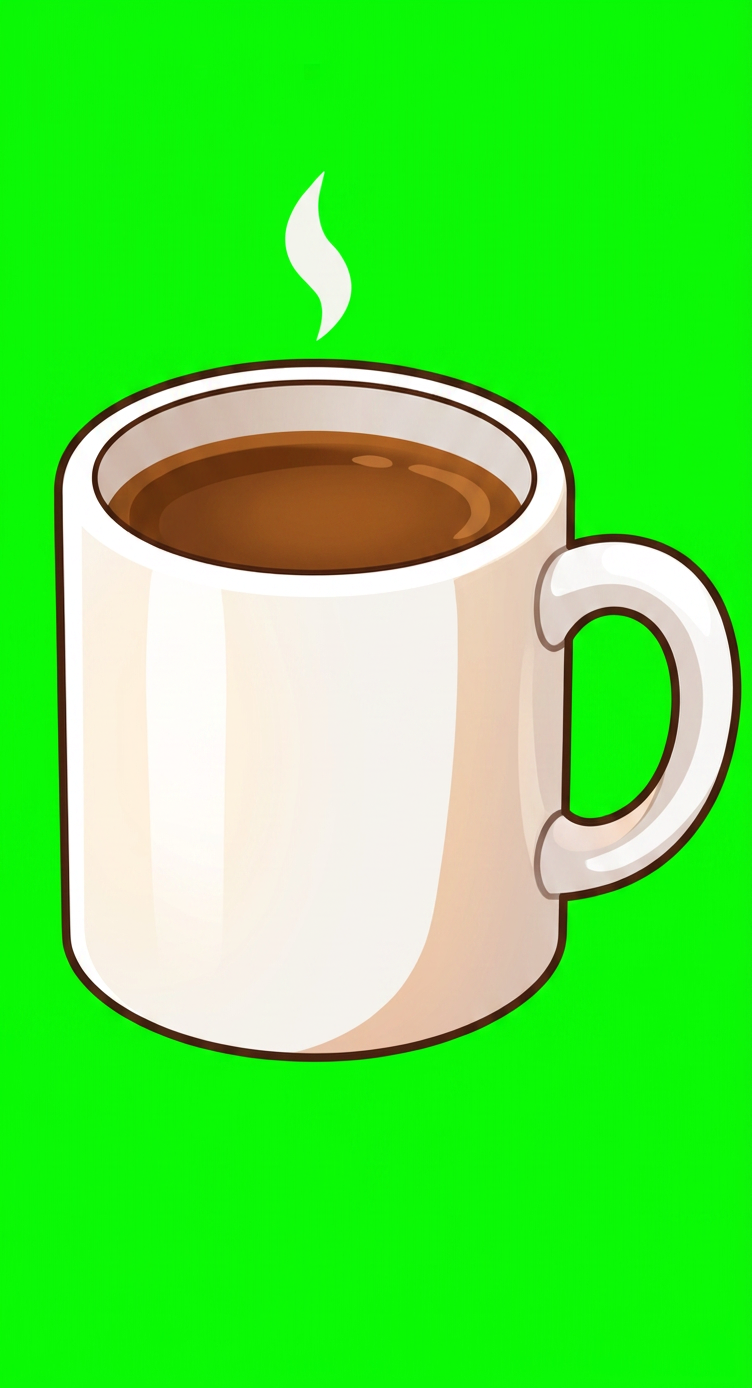
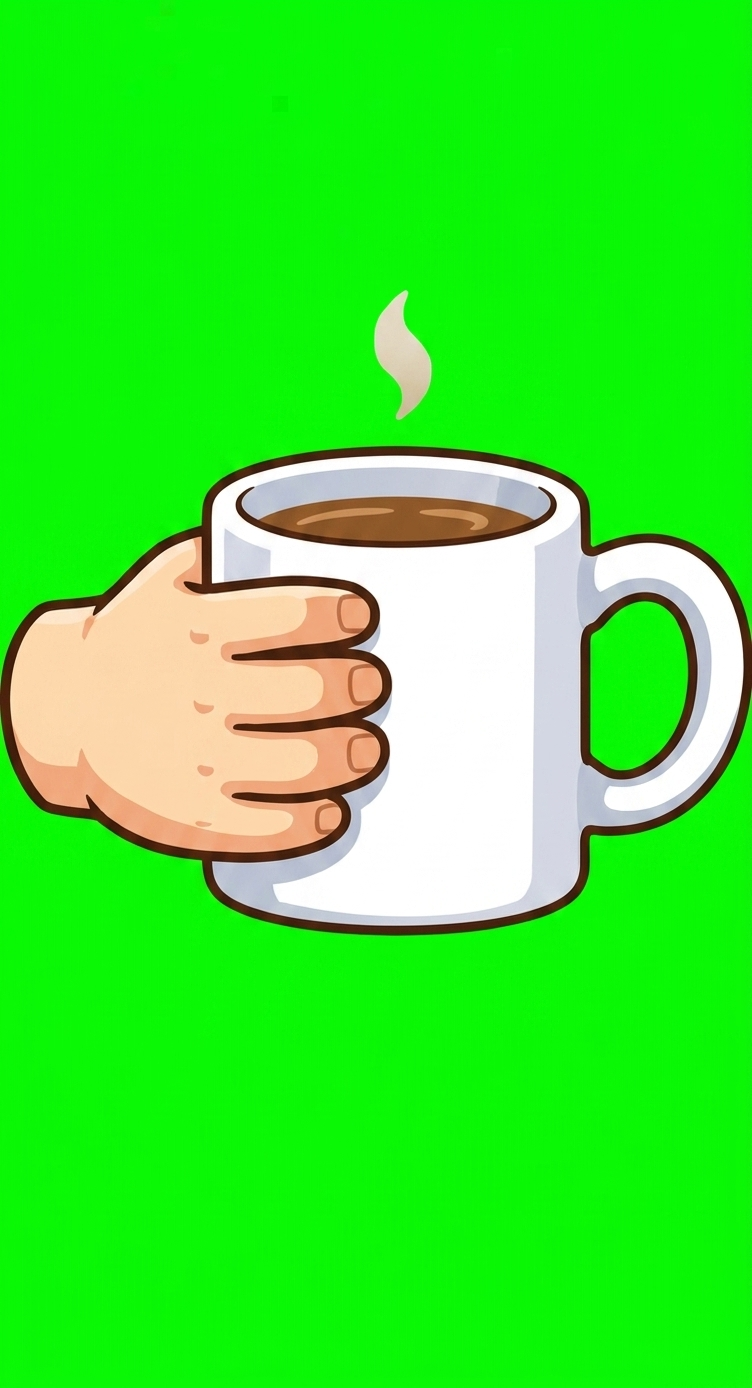
Phase 5 ①b(a)⑵: held-item 静的合成の歩行不成立を実測で確定 — 握り手込み・stand のみ表示の暫定規格へ改訂

diff --git a/packages/client/src/game.package/avatarView.ts b/packages/client/src/game.package/avatarView.ts
@@ -21,14 +21,21 @@ export interface AvatarSheetTextures {
 
 /**
  * A held item composited onto the avatar's hand anchor (avatar-rig.md §2 —
- * the held-item layer; validated by the ①b(a) layer-composition spike).
- * All coordinates are pixels in the source frames (2x display resolution,
- * origin top-left, straight from the manifests): `grip` is the point in
- * the item frame that lands on the pose's hand anchor, and `hands` are the
- * per-pose hand anchors (the near arm's fist, measured per frame — the
- * frame-center estimate the import line records by default would park the
- * item on the hip). The keys mirror AvatarSheetTextures so held items and
- * pose frames can never disagree about which poses exist.
+ * the held-item layer). All coordinates are pixels in the source frames
+ * (2x display resolution, origin top-left, straight from the manifests):
+ * `grip` is the point in the item frame that lands on the hand anchor, and
+ * `hands` are the per-pose hand anchors. The keys mirror AvatarSheetTextures
+ * so held items and pose frames can never disagree about which poses exist.
+ *
+ * Shown ONLY while standing — the ①b(a) spike's measured conclusion: the
+ * walk sheets' exaggerated arm swing (the very thing that makes the leg
+ * alternation readable, ①b(c)) structurally conflicts with a statically
+ * anchored item. Both fists swing prominently and empty, so wherever the
+ * item is pinned, half the frames read as "the arm swings past the
+ * floating item" (owner review + zoomed video review, 2026-08-08 — anchor
+ * precision cannot fix this). Items during WALK need a carry-pose body
+ * variant or an arm-included overlay layer (the MapleStory weapon+arm
+ * structure) — the ①e design decision recorded in ROADMAP ①b(a).
  */
 export interface HeldItemDisplay {
   texture: Texture;
@@ -58,12 +65,11 @@ const ASSET_SCALE = 0.5;
 
 /**
  * The held item as a sprite whose origin is its grip point: positioning it
- * at a pose's hand anchor is then a single coordinate conversion per frame
- * (see placeHeldItem). Added to `body` after the avatar sprite, so the item
- * draws in front — the hand anchor tracks the NEAR arm's fist, which the
- * source frames draw over the body in every pose (measured across the
- * stride by the ①b(a) spike), so one z-position suffices; no per-pose
- * z or rotation field earned its way into the manifest.
+ * at a pose's hand anchor is then a single coordinate conversion (see
+ * placeHeldItem). Added to `body` after the avatar sprite, so the item
+ * draws in front — the stand pose draws its front hand against the hip,
+ * so one z-position suffices; no per-pose z or rotation field earned its
+ * way into the manifest.
  */
 function createHeldItemSprite(item: HeldItemDisplay): Sprite {
   const sprite = new Sprite(item.texture);
@@ -83,6 +89,22 @@ function placeHeldItem(item: Sprite, frame: Texture, hand: readonly number[]): v
   const [handX, handY] = hand;
   item.x = ((handX ?? 0) - frame.width / 2) * ASSET_SCALE;
   item.y = PLAYER_HALF_H - (frame.height - (handY ?? 0)) * ASSET_SCALE;
+}
+
+/**
+ * Shows the held item while the avatar stands, stowed while it walks (the
+ * stand-only rule — see HeldItemDisplay). The placement re-runs on every
+ * shown frame because the stand texture is the placement's coordinate
+ * space and stays constant, so this is idempotent, not per-frame drift.
+ */
+function syncHeldItem(
+  item: Sprite,
+  sheet: AvatarSheetTextures,
+  held: HeldItemDisplay,
+  standing: boolean,
+): void {
+  item.visible = standing;
+  if (standing) placeHeldItem(item, sheet.stand, held.hands.stand);
 }
 
 /**
@@ -118,7 +140,7 @@ export function createAvatarView(
       walk = advanceWalk(walk, dx, dtMs);
       const pose = selectPose(walk);
       sprite.texture = sheet[pose];
-      if (item && held) placeHeldItem(item, sheet[pose], held.hands[pose]);
+      if (item && held) syncHeldItem(item, sheet, held, pose === 'stand');
     },
   };
 }

diff --git a/scripts/import-avatar-sheet.py b/scripts/import-avatar-sheet.py
@@ -20,14 +20,19 @@ estimate, overridden per pose by the order's `handAnchors` (measured values —
 skin-tone blob detection plus visual confirmation; the override lives in the
 order so a re-run of this script reproduces the committed manifest instead
 of clobbering the measurements back to the estimate). The measured spec,
-decided by the ①b(a) layer-composition spike after an in-game video review:
-`hand` is THE FIST THE ART DRAWS IN FRONT OF THE TORSO in each frame, not
-one physical hand tracked through the stride. The physical track parks 3 of
-4 walk frames at the hip (back swing / two passings) and pops forward for
-one frame, which at 96px and 200ms/frame reads as "the item is parked on
-the hip, ignoring the hand"; the front-fist positions stay within a few
-pixels of each other across the walk frames, so a held item reads as
-carried steadily in the visible hand. `neckAnchors` overrides the neck
+revised across the ①b(a) spike's owner/video reviews: the STAND `hand` is
+the visible hanging hand at the character's side — a held item's baked
+gripping hand covers it and connects to the arm (anchoring at the barely
+drawn front-hip hand instead reads as a disembodied hand). The WALK values
+record the fist the art draws in front of the torso (kept as measurements),
+but statically composited items are NOT rendered during walk at all: the
+exaggerated arm swing that makes the leg alternation readable (①b(c))
+leaves both fists prominently empty every stride, so wherever an item is
+pinned, half the frames read as floating — the same-physical-hand track
+parks it at the hip, the front-fist track pins it to the chest while the
+near arm swings past (both measured, both rejected). Items during walk
+need a carry-pose body variant or an arm-included overlay layer — the ①e
+design decision recorded in ROADMAP ①b(a). `neckAnchors` overrides the neck
 detection the same way: the ①b(a) spike measured that the narrowest-row
 heuristic breaks on outfits that widen the neck silhouette (the red
 hoodie's hood makes the hip row the narrowest, landing the neck on the

diff --git a/docs/ROADMAP.md b/docs/ROADMAP.md
@@ -1648,26 +1648,39 @@ Phase 6 の事業判断）。適用範囲はアバター・装備・オブジェ
   アンカーへのアイテム合成 1 個・服替えシート 1 着。①d①e で規格の穴が
   見つかってから直すと量産済み全キャラのシート再生成になるため、キャラ
   1 体のうちに規格を検証し切る（ファクトリー最重視の方針の実装）
-  ✅ **⑵ 装備・服替えの規格検証 実施（2026-08-08、総コスト $0.20 —
-  nano-banana-2 ×2 枚。頭グループ分離は⑴の頭部 neck 合成で検証済み）**:
-  両方とも現行規格で成立。結果と決定:
-  (i) **held-item（コーヒーカップ `item.coffee-mug`）**: nano-banana-2 に
-  立ちコマをスタイル参照で渡す 1 枚生成が一発合格。**hand アンカーの規格を
-  実測で決定** — 「そのコマでアートが体の前に描く拳」を指す（walk 4 コマで
-  x37〜42 に安定）。当初の「物理的に同一の手前手を追跡」（後→腰→前→腰）は
-  96px・200ms/コマでは 4 コマ中 3 コマが腰に集まり「アイテムが腰に固定」に
-  見えて動画レビュー不合格 → 前拳追跡に変更して合格。実座標の特定は肌色
-  ブロブ検出＋目視確認のハイブリッド（発注書の `handAnchors` 上書きに記録 —
-  再取り込みが実測値を保つ）。**held-item 側の規格の穴を 1 個発見**:
-  アイテム自身に取り付け点 `grip` が要る（manifest `anchors.grip`、
-  `scripts/import-held-item.py` 新設。高さ規約は 2x 16px — 14/16/20 の
-  合成比較で決定）
-  (ii) **前後関係 (b)・回転 (c) は manifest 拡張不要と判定**: 前拳は
-  アートが常に体の前に描くため単一 z（体スプライトの前に重ねる）で
-  5 ポーズとも破綻なし。マグは直立のままが自然（手首補正の読み）で角度
-  追従も不要。将来、長物（剣）や後ろ手ポーズで必要になったら anchors を
-  additive に `[x,y]` → `{pos, z, angle}` へ拡張する（現スキーマのまま
-  拡張余地を確認 — 今回は追加しない）
+  ✅ **⑵ 装備・服替えの規格検証 実施（2026-08-08、総コスト $0.50 —
+  nano-banana-2 ×5 枚。頭グループ分離は⑴の頭部 neck 合成で検証済み。
+  服替えは成立・held-item は当初規格を棄却して暫定規格へ改訂 —
+  スパイクの狙いどおり量産前に規格の穴が出た）**: 結果と決定:
+  (i) **held-item の当初規格「hand アンカーに 1 枚絵を静的合成」は歩行では
+  不成立と実測で確定**（オーナー指摘が起点）。実測の連鎖: ①素のカップ×
+  物理的に同一の手前手を追跡（後→腰→前→腰）— 96px・200ms/コマでは
+  4 コマ中 3 コマが腰に集まり「腰に固定」に見える ②素のカップ/握り手込み
+  カップ×「アートが体の前に描く拳」追跡（x37〜42 に安定）— 今度は腕が
+  空で振れてカップだけ胸に浮く二重拳（拡大動画レビューで両コーデ FAIL）。
+  **根本原因はアンカー精度ではなく、⑴が脚の交互性のために採用した誇張
+  スイング歩行との構造衝突** — 両拳が常に目立って空振りするため、どの
+  静的位置に置いても半分のコマで破綻する。nano-banana-2 に「持ち手を
+  固定した carry 歩行」への編集を 2 回試みたが腕ポーズ指示は効かず
+  （⑴の教訓の再確認）、一方**「アイテムを持たせる編集」（弁当箱で実験）は
+  腕ごと描くため腕とアイテムの整合が常に正しい**ことを確認 — 焼き込みは
+  item×outfit の掛け算になるが、元シートとの差分抽出で「腕込み
+  オーバーレイ部品」（本家 MapleStory の weapon+arm 構造）へ発展できる
+  (ii) **確定した暫定規格**: held-item は**握り拳込みで生成**（アイテム側
+  アンカー `grip`・高さ 2x 20px — manifest `anchors.grip`、
+  `scripts/import-held-item.py` 新設）し、**stand のみ表示**（歩行中は
+  しまう — 座る・立ち話の「コーヒーを持って居る」ユースは成立）。stand の
+  hand アンカーは**見えている垂れ手**（拳を覆って腕と接続する。ほぼ
+  描かれない前腰の手に置くと「手だけ浮く」— 実測）。この形で拡大動画
+  レビュー両コーデ合格。歩行中の携行の本命は (A) 差分抽出の腕込み
+  オーバーレイ層 (B) carry ポーズ変種（動画ライン $0.50/コーデ）の
+  二択で、**①e の層設計セッションで決める**（袖クラスとオーバーレイの
+  関係など服レイヤー設計と不可分のため）。実座標の特定は肌色ブロブ検出＋
+  目視確認のハイブリッド（発注書の `handAnchors` 上書きに記録 —
+  再取り込みが実測値を保つ）
+  (iii) **前後関係 (b)・回転 (c)**: stand のみの暫定規格では単一 z
+  （体の前）・回転なしで足りる。将来必要になったら anchors を additive に
+  `[x,y]` → `{pos, z, angle}` へ拡張できることを確認（今回は追加しない）
   (iii) **服替え（`avatar.boy-basic-red` 赤パーカー＋ベージュチノ）**:
   候補 (a) の nano-banana-2 **既存シート編集**が一発で成立し、動画ライン
   再運転（候補 b）は不要。ポーズ・接地・頭部の一致はシルエット IoU
@@ -1675,17 +1688,20 @@ Phase 6 の事業判断）。適用範囲はアバター・装備・オブジェ
   「restyle はポーズがドリフト」との整合: ドリフトしたのは生ビデオ
   フレームの restyle で、**構成済みシートへの keep-everything 編集は
   ポーズを保つ**（プロンプトに「編集は服だけ・ポーズ画素同一」を明記）
-  (iv) **発見した取り込みラインの穴 2 件**（①b 本体で構造対応）:
+  (iv) **発見した取り込みラインの穴 3 件**（①b 本体で構造対応）:
   neck 最細行ヒューリスティックはフード付きの服で壊れる（フードが首行を
   広げ、腰が最細になる — 実測で neck が y48→y68 へ落ちた）。肌色ブロブ
   検出もベージュの服色で汚染される。応急処置として発注書に
   `neckAnchors` / `handAnchors` 上書きを追加（服替えはポーズ同一なので
   基礎シートの実測値を転写）。①b のアート lint（アンカー乖離の自動計測）は
-  色でなく構造ベースの検出にすること
+  色でなく構造ベースの検出にすること。もう 1 件は視認性: 白いアイテムは
+  白シャツと同化してゲームスケールでほぼ見えない（動画レビュアーも
+  見落とした実測） — アート lint のパレット検査に「ベース服パレットとの
+  コントラスト」観点を足す種
   (v) **検証配線は dev 限定**の `?outfit=red` / `?held=mug`（AvatarView
   内で完結、本番ビルドから除外されることをビルド成果物で確認）。装備・
   服アセットの**本採用（着脱 UI・スキーマは①e）はオーナー判断に委ねる**。
-  クレジット残高 ~$8.5
+  クレジット残高 ~$8.2
   (b) **プレビュー検品画面（オーナー用の開発ページ）** — manifest 駆動で
   全キャラ×全ポーズを一覧・歩行モーションを実際に再生・複数キャラの並列
   比較・ポーズ欠落の機械検出（manifest poses の差集合）。読み取り専用で
